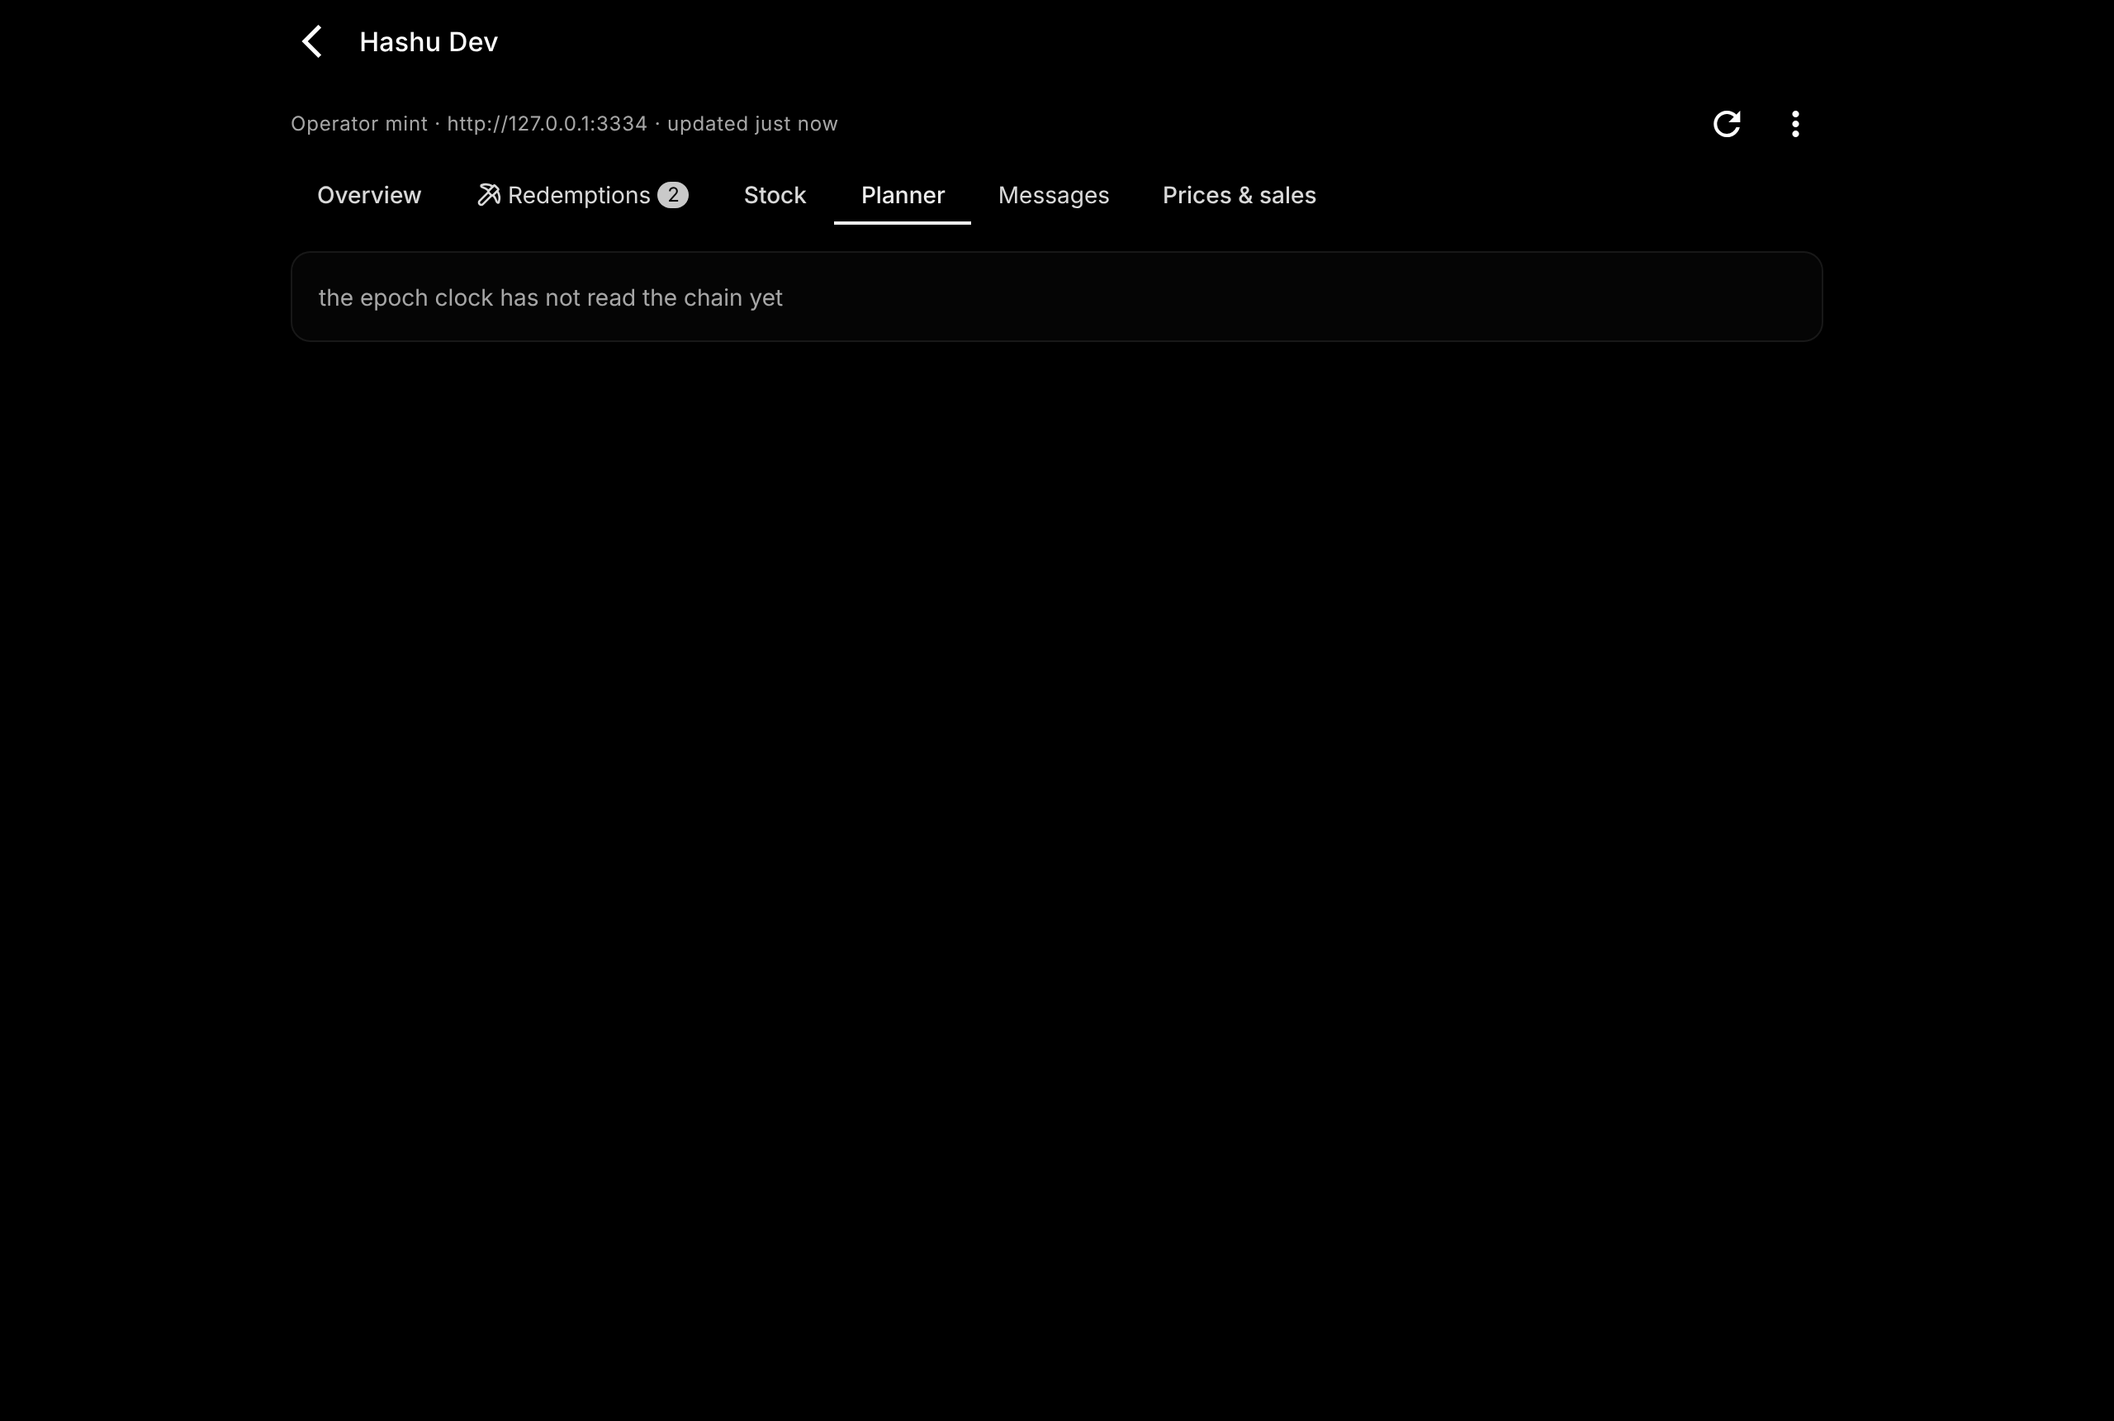
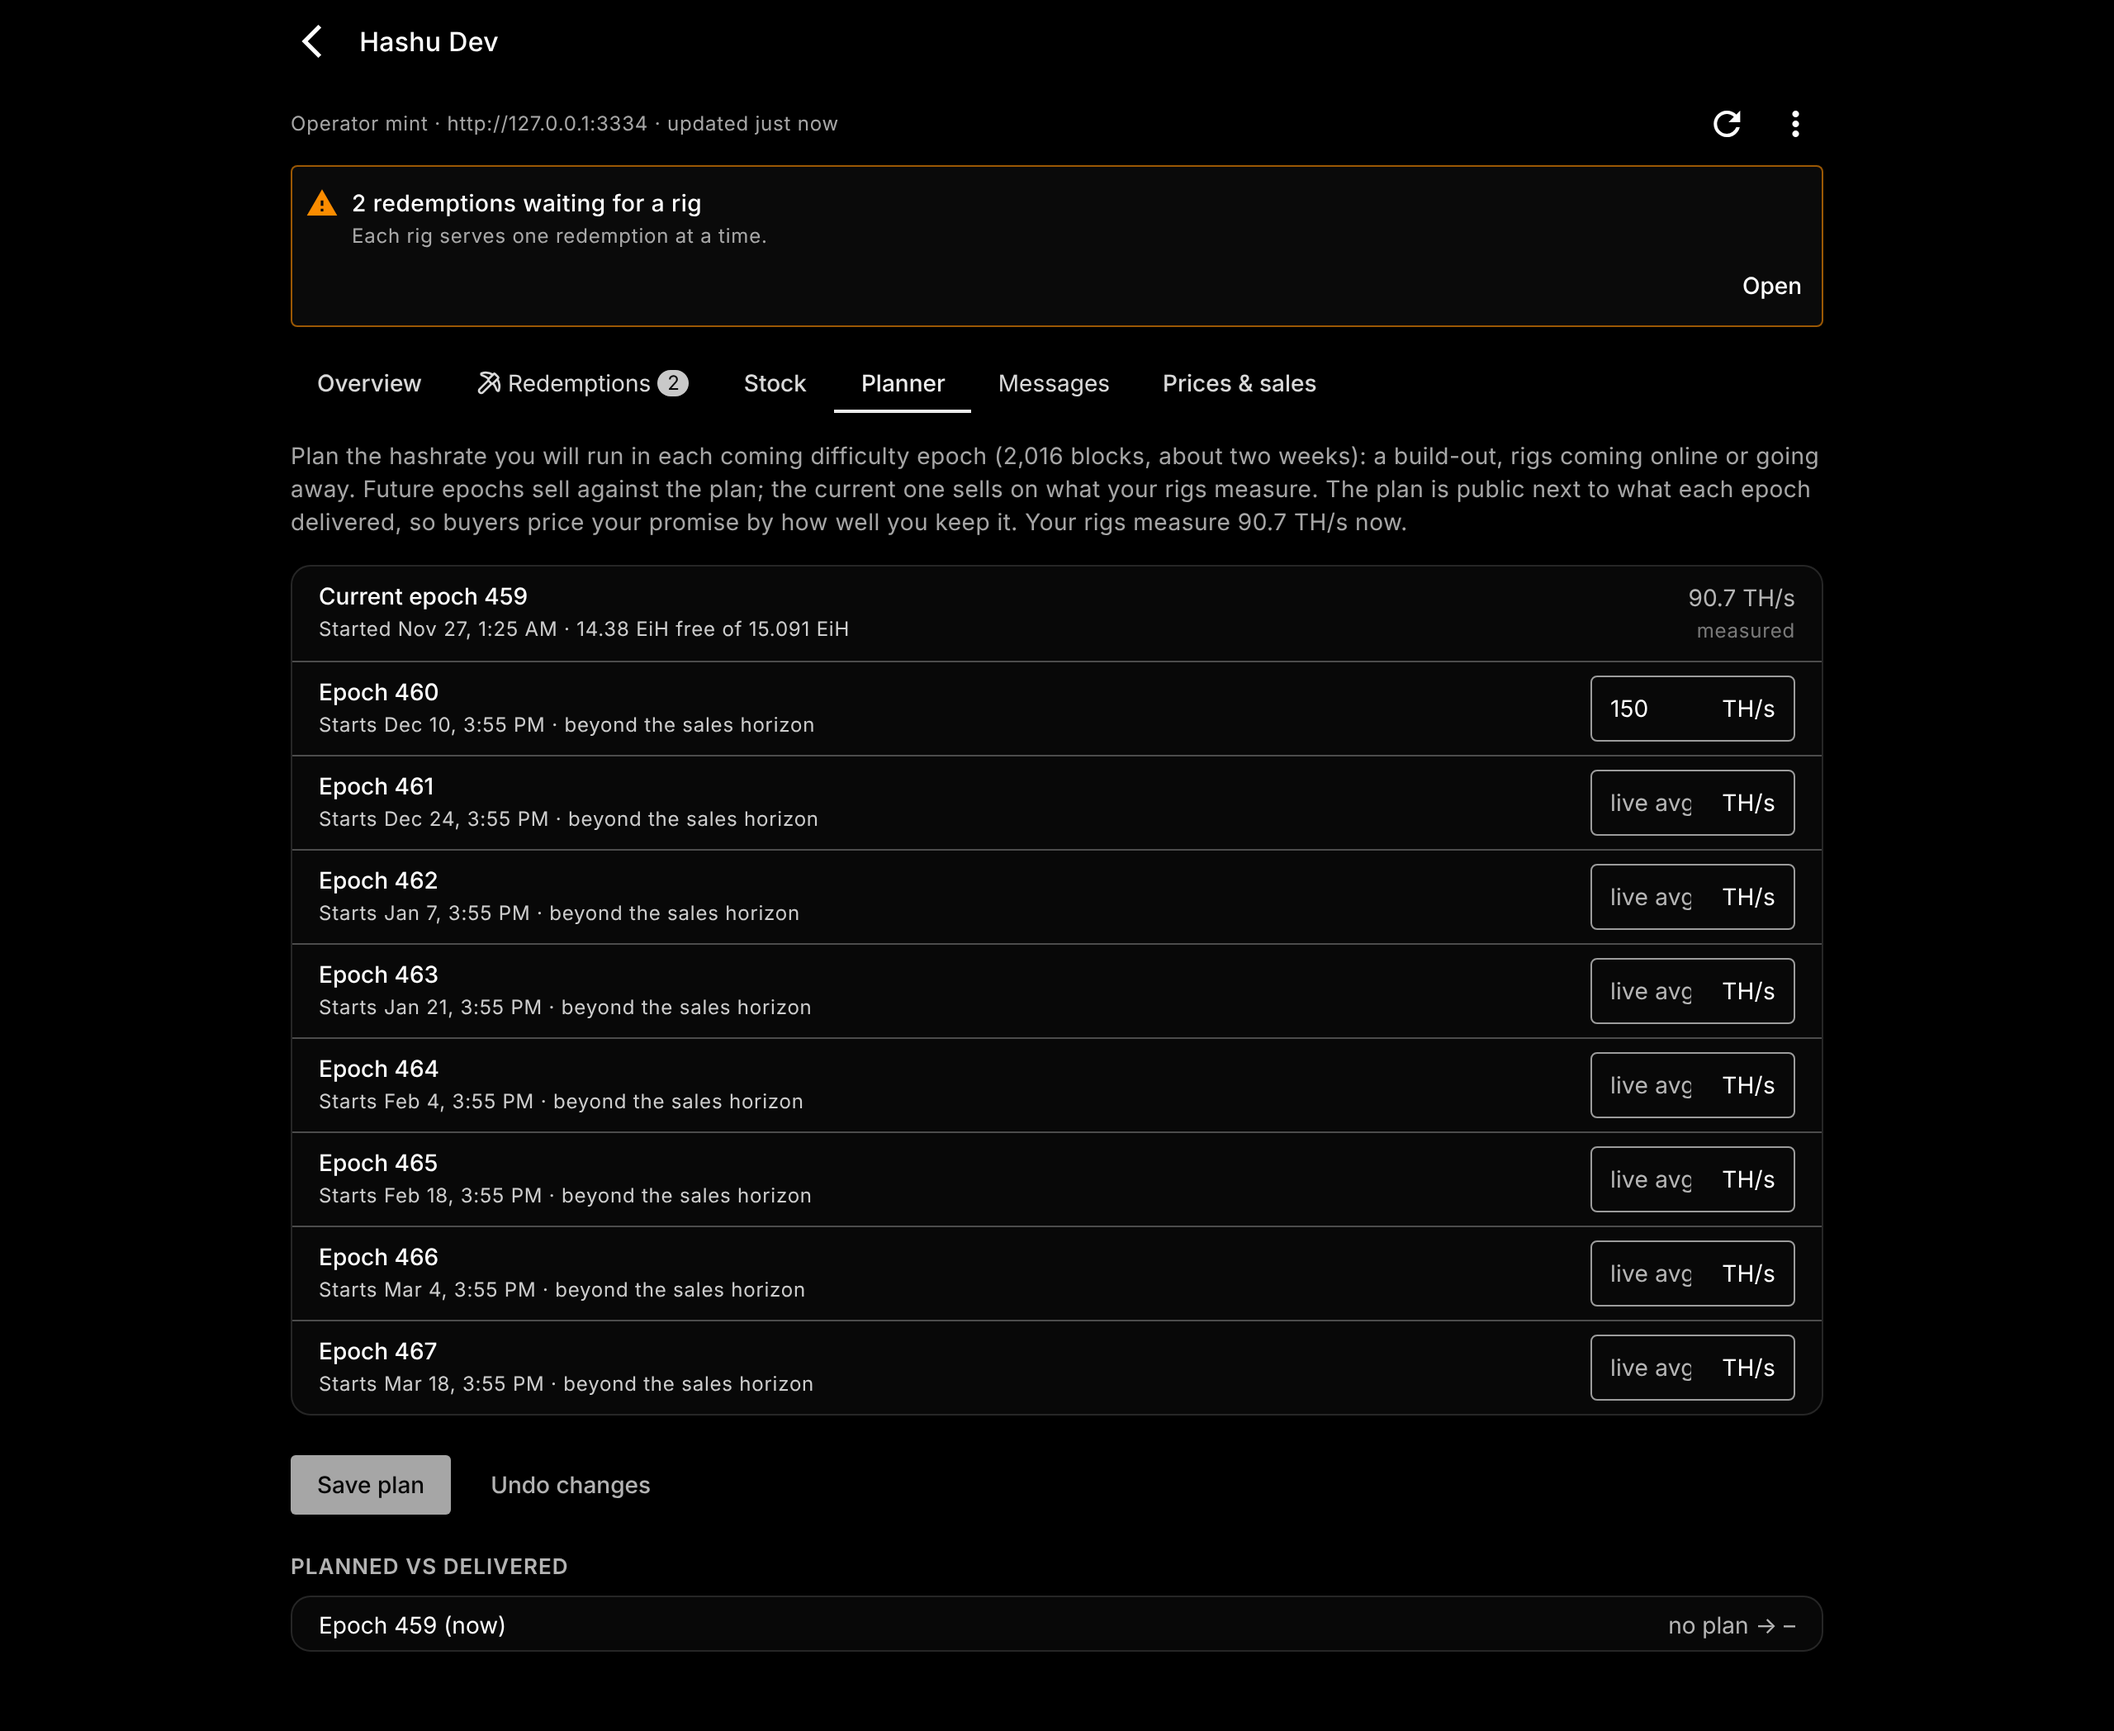
Hashu Operator: planner for supplier mints too
Supplier mints get Overview and Planner tabs; the planner reads and saves
the supplier's /api/plan with its dashboard key. Supplier hashrate tiles
read capacity.hashrate_ths (supplier capacity has no live block).

Claude-Session: https://claude.ai/code/session_01Dfv2PjfjXZiQt4Nhp15NWw

diff --git a/src/operator/components/SupplierDashboard.vue b/src/operator/components/SupplierDashboard.vue
@@ -1,104 +1,123 @@
 <template>
   <div>
-    <div class="op-tiles">
-      <div class="op-tile op-card">
-        <div class="op-tile-label">Status</div>
-        <div class="op-tile-value">
-          {{ st.selling ? "Selling" : "Not selling" }}
+    <q-tabs
+      v-model="tab"
+      dense
+      no-caps
+      align="left"
+      active-color="primary"
+      indicator-color="primary"
+      class="q-mb-md op-tabs"
+    >
+      <q-tab name="overview" label="Overview" />
+      <q-tab name="planner" label="Planner" />
+    </q-tabs>
+    <PlannerTab v-if="tab === 'planner'" :mint="mint" :snap="snap" />
+    <div v-else>
+      <div class="op-tiles">
+        <div class="op-tile op-card">
+          <div class="op-tile-label">Status</div>
+          <div class="op-tile-value">
+            {{ st.selling ? "Selling" : "Not selling" }}
+          </div>
+        </div>
+        <div class="op-tile op-card">
+          <div class="op-tile-label row items-center q-gutter-x-xs">
+            <HashuLogoIcon :size="13" /><span>For sale</span>
+          </div>
+          <div class="op-tile-value">{{ fmtHashes(cap.available_tih) }}</div>
+        </div>
+        <div class="op-tile op-card">
+          <div class="op-tile-label">Live hashrate</div>
+          <div class="op-tile-value">{{ fmtThs(cap.hashrate_ths) }}</div>
+          <div class="op-tile-sub">
+            Average {{ fmtThs(cap.stock?.ewma_ths) }}
+          </div>
+        </div>
+        <div class="op-tile op-card">
+          <div class="op-tile-label">Ask</div>
+          <div class="op-tile-value">
+            {{
+              st.ask_sats_per_eih != null
+                ? `${st.ask_sats_per_eih.toLocaleString()} sats/EiH`
+                : "–"
+            }}
+          </div>
+          <div class="op-tile-sub" v-if="st.ask_sats_per_th_day != null">
+            {{ fmtSats(st.ask_sats_per_th_day) }}/THd
+          </div>
+        </div>
+        <div class="op-tile op-card">
+          <div class="op-tile-label">Owed</div>
+          <div class="op-tile-value">{{ fmtHashes(cap.owed_tih) }}</div>
         </div>
       </div>
-      <div class="op-tile op-card">
-        <div class="op-tile-label row items-center q-gutter-x-xs">
-          <HashuLogoIcon :size="13" /><span>For sale</span>
-        </div>
-        <div class="op-tile-value">{{ fmtHashes(cap.available_tih) }}</div>
-      </div>
-      <div class="op-tile op-card">
-        <div class="op-tile-label">Live hashrate</div>
-        <div class="op-tile-value">{{ fmtThs(cap.live?.measured_ths) }}</div>
-        <div class="op-tile-sub">
-          Average {{ fmtThs(cap.live?.stock?.ewma_ths) }}
-        </div>
-      </div>
-      <div class="op-tile op-card">
-        <div class="op-tile-label">Ask</div>
-        <div class="op-tile-value">
-          {{
-            st.ask_sats_per_eih != null
-              ? `${st.ask_sats_per_eih.toLocaleString()} sats/EiH`
-              : "–"
-          }}
-        </div>
-        <div class="op-tile-sub" v-if="st.ask_sats_per_th_day != null">
-          {{ fmtSats(st.ask_sats_per_th_day) }}/THd
-        </div>
-      </div>
-      <div class="op-tile op-card">
-        <div class="op-tile-label">Owed</div>
-        <div class="op-tile-value">{{ fmtHashes(cap.owed_tih) }}</div>
-      </div>
-    </div>
 
-    <div class="op-section-title">Settings</div>
-    <q-form class="op-card q-pa-md column q-gutter-y-md" @submit.prevent="save">
-      <q-input
-        v-model.number="form.ask_sats_per_eih"
-        outlined
-        dense
-        type="number"
-        min="1"
-        step="1"
-        label="Ask (sats per EiH)"
-        :hint="askHint"
-      />
-      <q-input
-        v-model.number="form.horizon_hours"
-        outlined
-        dense
-        type="number"
-        min="1"
-        step="1"
-        label="Horizon (hours)"
-        hint="Stock = your rigs' average hashrate × the horizon"
-      />
-      <q-input
-        v-model="form.lnurl"
-        outlined
-        dense
-        label="Lightning address (you get paid here)"
-        autocapitalize="off"
-      />
-      <q-input
-        v-model="form.npub"
-        outlined
-        dense
-        label="Your npub (messages to your mint)"
-        autocapitalize="off"
-      />
-      <div class="row q-gutter-sm">
-        <q-btn
-          type="submit"
-          unelevated
-          no-caps
-          color="primary"
-          label="Save"
-          :loading="busy === 'save'"
+      <div class="op-section-title">Settings</div>
+      <q-form
+        class="op-card q-pa-md column q-gutter-y-md"
+        @submit.prevent="save"
+      >
+        <q-input
+          v-model.number="form.ask_sats_per_eih"
+          outlined
+          dense
+          type="number"
+          min="1"
+          step="1"
+          label="Ask (sats per EiH)"
+          :hint="askHint"
         />
-        <q-btn
-          outline
-          no-caps
-          label="Restock now"
-          :loading="busy === 'restock'"
-          @click="restock"
+        <q-input
+          v-model.number="form.horizon_hours"
+          outlined
+          dense
+          type="number"
+          min="1"
+          step="1"
+          label="Horizon (hours)"
+          hint="Stock = your rigs' average hashrate × the horizon"
         />
-      </div>
-    </q-form>
+        <q-input
+          v-model="form.lnurl"
+          outlined
+          dense
+          label="Lightning address (you get paid here)"
+          autocapitalize="off"
+        />
+        <q-input
+          v-model="form.npub"
+          outlined
+          dense
+          label="Your npub (messages to your mint)"
+          autocapitalize="off"
+        />
+        <div class="row q-gutter-sm">
+          <q-btn
+            type="submit"
+            unelevated
+            no-caps
+            color="primary"
+            label="Save"
+            :loading="busy === 'save'"
+          />
+          <q-btn
+            outline
+            no-caps
+            label="Restock now"
+            :loading="busy === 'restock'"
+            @click="restock"
+          />
+        </div>
+      </q-form>
+    </div>
   </div>
 </template>
 
 <script lang="ts">
 import { defineComponent, type PropType } from "vue";
 import HashuLogoIcon from "components/icons/HashuLogoIcon.vue";
+import PlannerTab from "./PlannerTab.vue";
 import { call, type OperatorMint } from "../api";
 import type { MintSnapshot } from "../store";
 import { fmtHashes, fmtSats, fmtThs } from "../format";
@@ -109,7 +128,7 @@ const TIH_PER_EIH = 1024 * 1024;
 
 export default defineComponent({
   name: "SupplierDashboard",
-  components: { HashuLogoIcon },
+  components: { HashuLogoIcon, PlannerTab },
   props: {
     mint: { type: Object as PropType<OperatorMint>, required: true },
     snap: { type: Object as PropType<MintSnapshot>, required: true },
@@ -125,6 +144,9 @@ export default defineComponent({
         npub: s.npub ?? "",
       },
       busy: "",
+      tab: (this.$route.query.tab === "planner" ? "planner" : "overview") as
+        | "overview"
+        | "planner",
     };
   },
   computed: {

diff --git a/src/operator/components/PlannerTab.vue b/src/operator/components/PlannerTab.vue
@@ -6,9 +6,11 @@
     </div>
     <template v-else>
       <div class="text-body2 op-muted q-mb-md">
-        The hashrate you plan to run in each coming difficulty epoch (2,016
-        blocks, about two weeks). Future epochs sell against the plan; the
-        current one sells on what your rigs measure. Your rigs measure
+        Plan the hashrate you will run in each coming difficulty epoch (2,016
+        blocks, about two weeks): a build-out, rigs coming online or going away.
+        Future epochs sell against the plan; the current one sells on what your
+        rigs measure. The plan is public next to what each epoch delivered, so
+        buyers price your promise by how well you keep it. Your rigs measure
         {{ fmtThs(plan.measured_ths) }} now.
       </div>
       <q-list class="op-card" separator>

diff --git a/src/operator/pages/HomePage.vue b/src/operator/pages/HomePage.vue
@@ -141,7 +141,7 @@ export default defineComponent({
           { label: "For sale", value: fmtHashes(st?.capacity?.available_tih) },
           {
             label: "Live hashrate",
-            value: fmtThs(st?.capacity?.live?.measured_ths),
+            value: fmtThs(st?.capacity?.hashrate_ths),
           },
           {
             label: "Ask",
